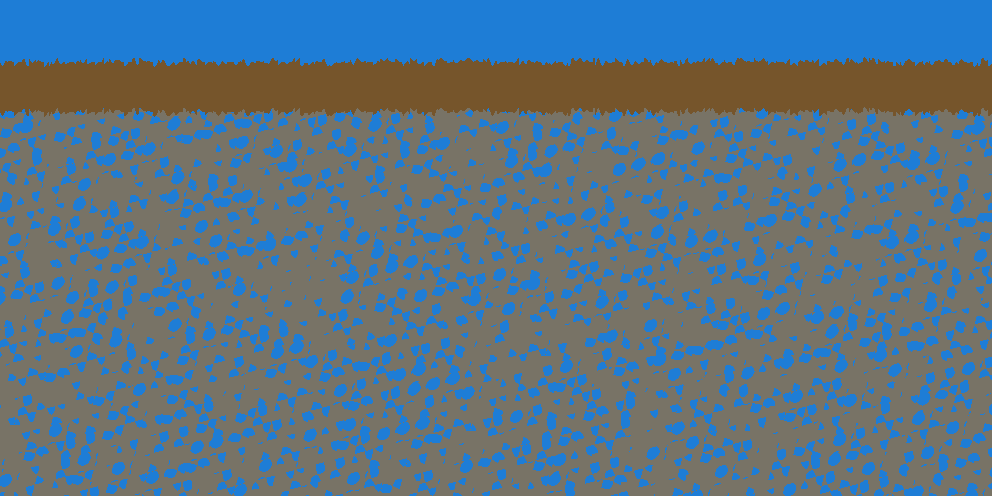
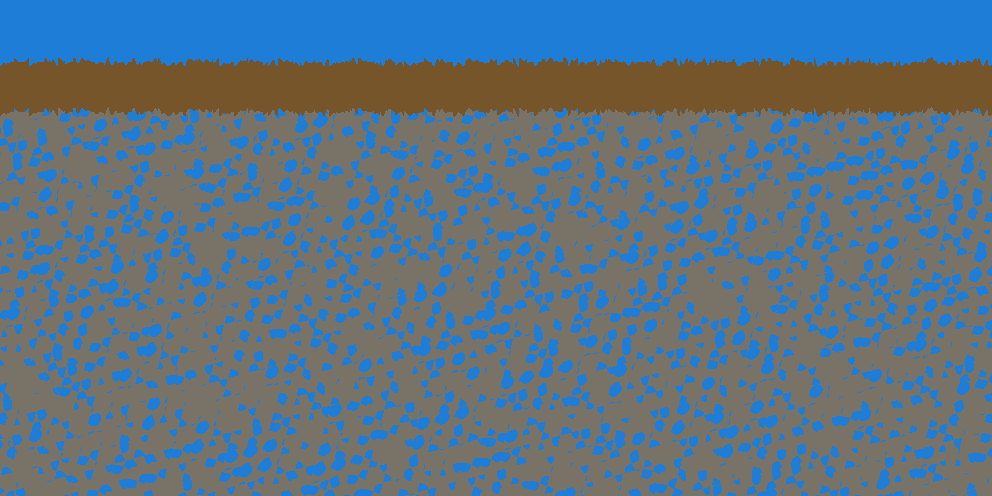
im baffled i dont have a clue why it isnt generating

diff --git a/src/tile_game/terrain.rs b/src/tile_game/terrain.rs
@@ -31,6 +31,7 @@ pub fn chunk_render_checker(mut world: ResMut<World>, player: Res<Player>, mut a
             else{
                 if x_dif < 17 && y_dif < 17 {
                     chunk.rendered = true;
+                    println!(" i did ");
                     render_chunk(chunk, &mut asset_server, sprite_sheet_idx, chunk_x, chunk_y);
                 }
             }
@@ -51,6 +52,7 @@ fn render_chunk(chunk: &mut Chunk, asset_server: &mut AssetServer, sprite_sheet_
         for block in col {
             let x = col_idx as f32 * block_size;
             let y = row_idx as f32 * block_size;
+            println!("{},{}", x, y);
             let p1 = Vec2::new(-block_size_halfed + x, -block_size_halfed + y);
             let p2 = Vec2::new(block_size_halfed + x, block_size_halfed + y);
             let tex_coords = get_tex_coords(block);

diff --git a/src/collision.rs b/src/collision.rs
@@ -26,9 +26,6 @@ impl Box2D {
     pub fn check_collision(&self, instance: &Instance, window_events: &WindowEvents) -> bool {
         let x = window_events.screen_mouse_pos.x + instance.position.x;
         let y = (window_events.screen_mouse_pos.y + instance.position.y) / window_events.aspect_ratio;
-        println!("max: {}, {}", self.x_max, self.y_max);
-        println!("min: {}, {}", self.x_min, self.y_min);
-        println!("{}, {}", x, y);
         if self.enabled{
             if x < self.x_max && x > self.x_min && y < self.y_max && y > self.y_min {
                 return true;

diff --git a/src/main.rs b/src/main.rs
@@ -20,7 +20,7 @@ pub async fn run() {
     let (mut state, event_loop) = State::new(false, env!("OUT_DIR"), camera, 5.0, 2.0).await;
     //add models
     //custom mesh
-    let sprite_map_idx = state.world.get_resource_mut::<AssetServer>().unwrap().compile_material("cube-diffuse.jpg").await;
+    let sprite_map_idx = state.world.get_resource_mut::<AssetServer>().unwrap().compile_material("texture_atlas.png").await;
     let mut world = gen(1000, 500, 1, sprite_map_idx);
     world.save_to_image("output.png");
     state.world.insert_resource(world);

diff --git a/src/assets.rs b/src/assets.rs
@@ -1,9 +1,9 @@
-use bevy_ecs::{system::Resource, world::World};
+use bevy_ecs::system::Resource;
 use glam::Vec2;
 use slab::Slab;
 use wgpu::{Device, Queue, util::DeviceExt, BindGroupLayout};
 
-use crate::{material::Material, prelude::{Vertex, Instance}, primitives::rect, state::State, prefabs::Prefab, structs::Mesh, loader::load_texture};
+use crate::{material::Material, prelude::{Vertex, Instance}, primitives::rect, prefabs::Prefab, structs::Mesh, loader::load_texture};
 
 #[derive(Resource)]
 pub struct AssetServer {

diff --git a/src/tile_game/terrain_passes.rs b/src/tile_game/terrain_passes.rs
@@ -23,7 +23,6 @@ pub fn basic_caves_pass(world: &mut World, hasher: &PermutationTable) {
                 block.block_id = 2; //stone
                 //check if cave
                 let cave_val = noise_2d_zero_to_one(hasher, col,row, 25.);
-                print!("{}",cave_val);
                 if cave_val > 0.1 { //TODO: ADD FRACTAL NOISE, ADD MULTIPLE SMALLER LAYERS OF NOISE FOR REFINED DETAILS
                     block.block_id = 0;
                 }
